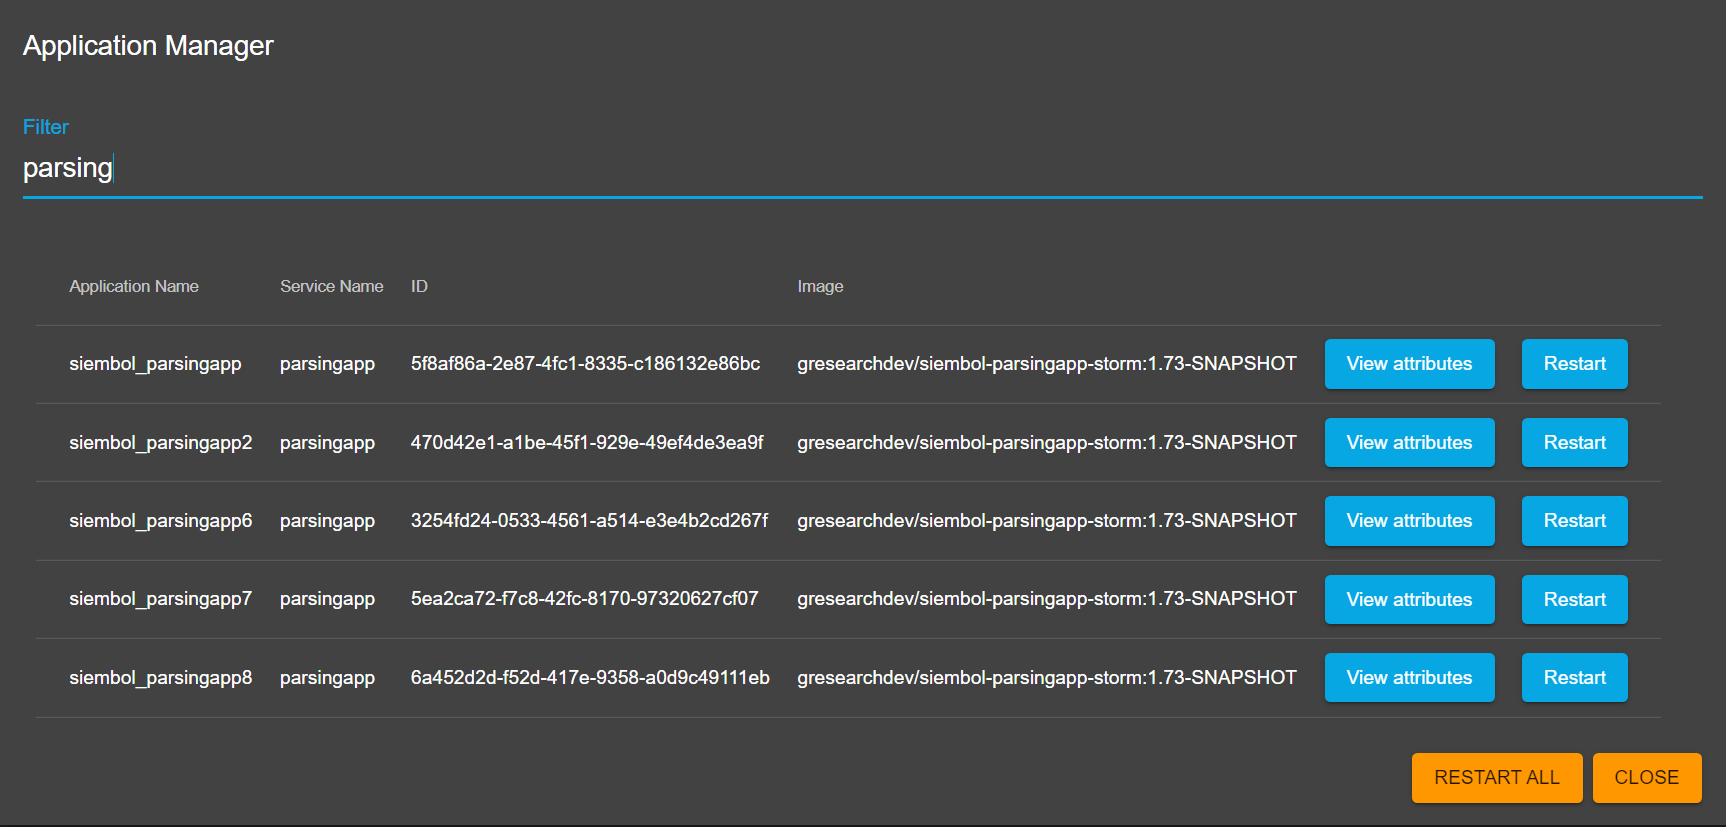
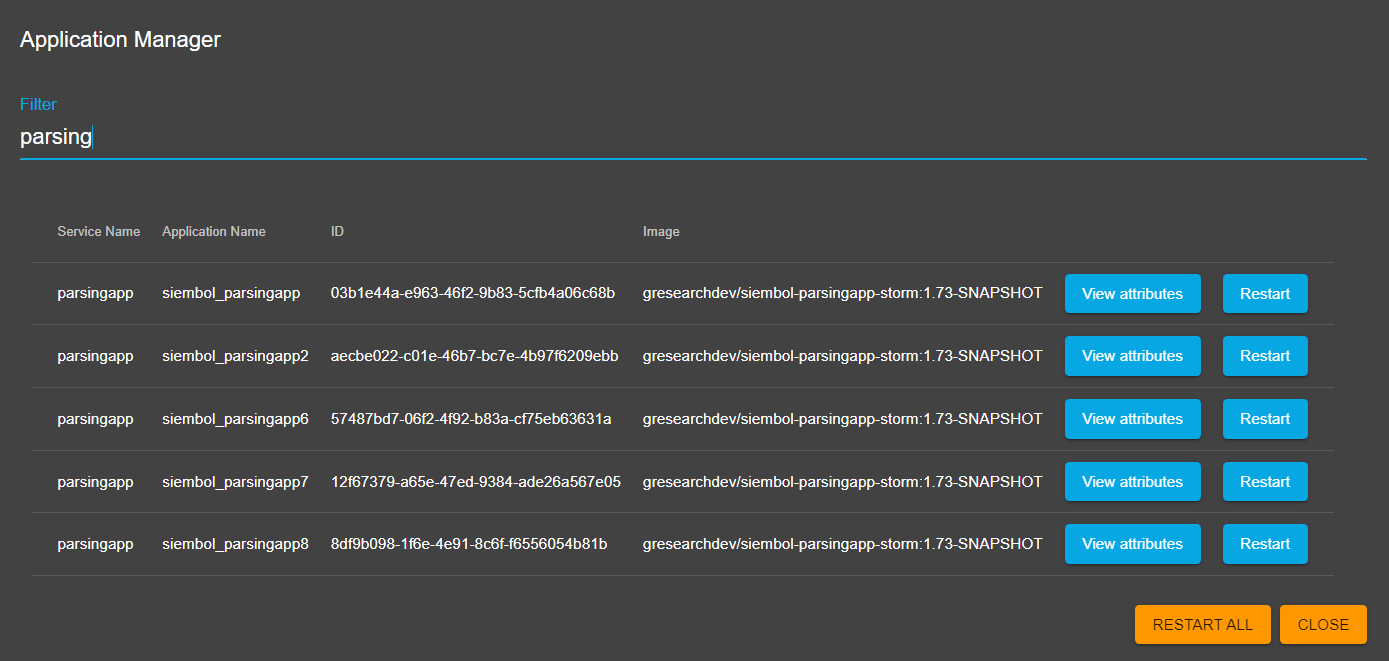
refactor

diff --git a/config-editor/config-editor-ui/src/app/model/config-model.ts b/config-editor/config-editor-ui/src/app/model/config-model.ts
@@ -208,14 +208,14 @@ export interface Application {
 
 export const applicationManagerColumns = [
   {
-    columnDef: 'name',
-    header: 'Application Name',
-    cell: (t: Application) => `${t.topology_name}`,
-  },
-  {
     columnDef: 'service_name',
     header: 'Service Name',
     cell: (t: Application) => `${t.service_name}`,
+  },
+  {
+    columnDef: 'application_name',
+    header: 'Application Name',
+    cell: (t: Application) => `${t.topology_name}`,
   },
   {
     columnDef: 'id',
@@ -229,4 +229,4 @@ export const applicationManagerColumns = [
   },
 ];
 
-export const displayedApplicationManagerColumns = ["name", "service_name", "id", "image", "attributes", "restart"];
+export const displayedApplicationManagerColumns = ["service_name", "application_name", "id", "image", "attributes", "restart"];

diff --git a/docs/siembol_ui/how-tos/how_to_add_links_to_siembol_ui_home_page.md b/docs/siembol_ui/how-tos/how_to_add_links_to_siembol_ui_home_page.md
@@ -1,11 +1,11 @@
 # How to add links to the siembol ui home page or the management page
 
 ## Siembol home page
-The siembol home page has an 'Explore Siembol' section at the button of its home page, as can be seen in the screenshot below. It is used for quick access to useful resources such as documentation, ticket tracking systems etc. By default there is a link to the documentation and to the issues page on the git repo.
+The Siembol home page has an 'Explore Siembol' section at the button of its home page, as can be seen in the screenshot below. It is used for quick access to useful resources such as documentation, ticket tracking systems etc. By default there is a link to the documentation and to the issues page on the git repo.
 
 ![image](../screenshots/home_page.png)
 
-New links can be added to both from the `ui-config.json` config file. 
+New links can be added from the `ui-config.json` config file. 
 Below is the default config file provided where the two default links are in "homeLinks".
 
         {
@@ -35,6 +35,6 @@ To add a new link you need three things:
 
 ## Siembol management page
 
-The siembol [management page](./how_to_use_the_management_page.md), which is only accessible by admins of any service, has a 'Management Links' section at the top of the page, similar to the links in the home page. This can be used to add links useful for just admins such as to monitoring dashboards. There are no links in the management page by default.
+The Siembol [management page](./how_to_use_the_management_page.md), which is only accessible by admins of any service, has a 'Management Links' section at the top of the page, similar to the links in the home page. This can be used to add links useful to admins.
 
 Links are added by the user in the `ui-config.json` file in the same way as for home links, but the key is "managementLinks". 

diff --git a/docs/siembol_ui/how-tos/how_to_manage_applications.md b/docs/siembol_ui/how-tos/how_to_manage_applications.md
@@ -1,8 +1,8 @@
 # How to manage applications
 Admin users can manage applications from the actions in the [management page](./how_to_use_the_management_page.md) by clicking on the `Manage Applications` button. 
 
-This opens up a dialog similar to the own in the screenshot below, showing the running applications for all services the user is an admin for with the application name, service name, id, image and attributes. 
-A single application or all applications can be restarted from here.
+This opens up a dialog similar to the own in the screenshot below, showing the running applications for all services the user is an admin for with the service name, application name, id, image and attributes. 
+A single application or all applications can be restarted from here. Please wait a few minutes after restarting applications and check storm UI if the new state has been released
 
 <img src="../screenshots/applications_manager.png" alt="drawing"/>
 

diff --git a/docs/siembol_ui/how-tos/how_to_use_the_management_page.md b/docs/siembol_ui/how-tos/how_to_use_the_management_page.md
@@ -5,7 +5,7 @@ The management page can only be accessed by an admin of any service. It has two 
 <img src="../screenshots/management_page.png" alt="drawing"/>
 
 ## Links
-The management links are links useful to only admins. This could for example be a link to monitoring dashboards. To add management links see [here](./how_to_add_links_to_siembol_ui_home_page.md).
+The management links are links useful to only admins. To add management links see [here](./how_to_add_links_to_siembol_ui_home_page.md).
 
 ## Actions
 Currently there is only one admin action: managing the running applications. This opens up a dialog which is explained in detail [here](./how_to_manage_applications.md).
